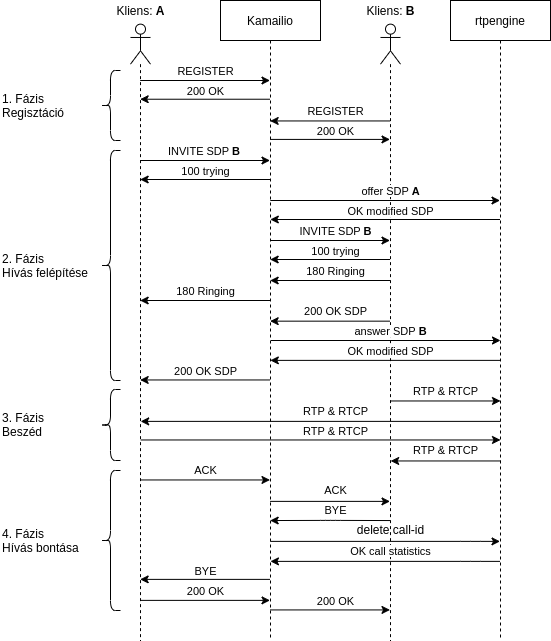
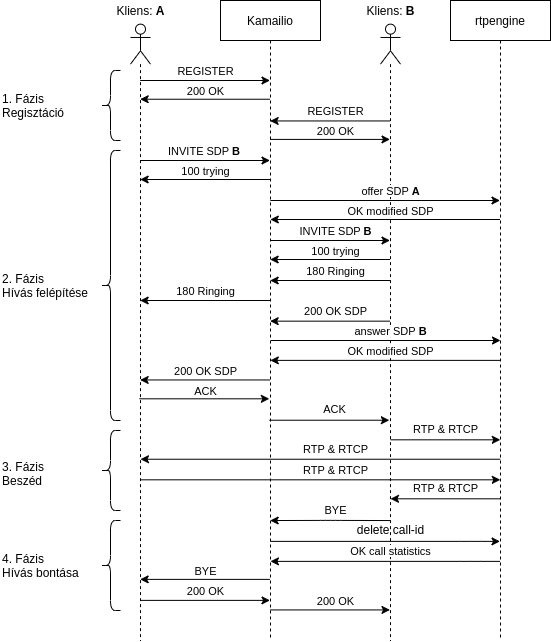
End of call setup and figure about k8s

diff --git a/content/call_setup.tex b/content/call_setup.tex
@@ -216,7 +216,59 @@ Az alábbi ábra segítségével fogom ismertetni egy teljes hívás részeit:
 	\label{fig:HVSpaces}
 \end{figure}
 
+Az ábrán látható egy teljes hívás folyamata a regisztrációtól egészen a hívás bontásáig.
+Négy részre bontottam a hívást annak érdekében, hogy könnyebb legyen a megértése.
 
-%---------------
-%TALK ABOUT SIP
-%---------------
+Az első rész a regisztráció amelynek során a felhasználók csatlakoznak a SIP szerverhez.
+Ilyenkor a kliens SIP REGISTER üzenetet küld a szervernek, amikkel hozzáadni, törölni és
+lekérdezni lehet a felhasználó adait szerverről. Ha létezik a felhasználónak fiókja 
+a szerveren, viszont még nem jelentkeztek be az adott eszközről akkor az első alkalommal 
+egy 401 Unauthorized üzenettel tér vissza, ami felszólítja a klienst, hogy adja meg a 
+hitelesítéshez szükséges felhasználói azonosítót és jelszót, amit egy újabb SIP REGISTER
+üzenetben fog újraküldeni titkosítva. Ha minden megfelelt, akkor 200 OK üzenetet kap 
+vissza a kliens, ami jelzi, hogy minden rendben és tud hívásokat kezdeményezni. Az ábrán
+szereplő folyamat nem tartalmazza a 401-s üzenetet, mert már többször használva volt a 
+kliens azon a virtuális gépen. Mint látszik a leírtakból és az ábrán is nagyon hasonlóan
+működik a SIP protokoll, ami megkönnyíti a megértését azoknak, akik járatosak a HTTP-ben. 
+
+A következő rész pedig már a konkrét hívás kezdeményezése és felépítése. A hívást az 
+\textbf{A} felhasználó kezdeményezi \textbf{B} irányába egy INVITE üzenettel, ami tartalmaz
+egy SDP üzenetet is. Ez az SDP egy olyan protokoll, amivel a híváshoz kapcsolódó információkat
+lehet továbbítani, mint például a támogatott média formátumok listája illetve a hívott fél
+elérhetőségei. Mivel ebben az esetben \textbf{B} felhasználó címe létezik a szerveren így
+a szerver 100 trying üzenettel jelzi \textbf{A}-nak, hogy elkezdte a hívást felépíteni. Erre
+azért van szükség, hogy a kliens ne próbálkozzon újra a hívás felépítésével.
+
+A szerver ilyenkor küld egy \textbf{offer} üzenetet az rtpengine felé, aminek legalább 
+tartalmaznia kell az \textbf{A} által küldött SDP üzenetet, hívásazonosítót és a SIP üzenet
+From mezőjét, ami az \textbf{A} azonosítója. Erre az rtpengine egy módosított SDP üzenetet küld
+vissza a szervernek, amiben módosítja a cél címet és portot a sajátjára. Így minden RTP
+üzenet elsőnek az rtpengine-hez fog elmenni és majd onnét megy tovább \textbf{B}-nek.
+
+Ha ez is sikeresen megtörtént, a szerver átveszi a hívás kezdeményező szerepét a \textbf{B}-vel
+szemben. Szóval küld egy INVITE üzenetet neki, amiben szerepel \textbf{A} azonosítója, de
+a csatlakozást leíró mező az rtpengine címe lesz. A trying üzenet ebben az esetben is 
+ugyan azt jelenti, mint mikor az \textbf{A} kezdeményezett. De itt már szerepel a 
+\textbf{180 ringing}, amivel lehet jelzi, hogy feldolgozásra került az INVITE. Majd ugyan ez 
+az üzenetet megkapja \textbf{A} is. 
+
+Ha \textbf{B} elfogadta a hívást, akkor \textbf{200 OK}-l jelez a szervernek, amiből a
+SIP szerver tudja, hogy answer-t kell küldenie az rtpengine felé, amivel a hívás teljesen
+ki fog épülni az rtpengine-ben is. Az answer igazából ugyanazt a funkciót valósítja meg,
+mint az offer. Mivel az rtpengine kapott offer-t és answer-t is, így a hívást kiépítheti
+és az előzőleg lefoglalt négy porton képes fogadni a forgalmat, amit feldolgozva 
+tovább küld. Azért foglal le négy port, mert felenként kell egy páros számú port az 
+RTP forgalomnak és egy páratlan számú az RTCP-nek. Végül pedig egy SIP ACK üzenettel van
+értesítve mind a két fél arról, hogy a hívás sikeresen kiépült és elkezdhetnek 
+beszélni. 
+
+Mivel már létezik a hívás így már lehet küldeni a forgalmat az rtpengine adott 
+portjaira. Ahol a legegyszerűbb esetben annyi történik, hogy az \textbf{A}-hoz rendelt
+RTP porton kapott csomagokat kiküldi a \textbf{B}-hez a hozzárendelt portról. Ugyanez
+történik RTCP esetében is. 
+
+Mikor vége a hívásnak, akkor megkezdődik a hívás lebontása egy BYE SIP üzenettel. Aminek
+hatására a SIP szerver egy delete üzenetet ad ki az rtpengine felé, ami tartalmazza a hívás
+azonosítóját. Ekkor törlődik minden a híváshoz kapcsolódó információ és a számukra kinyitott
+portok is lezárnak. De a rtpengine válaszában szerepelnek a hívásról információk, amik alapján
+könnyen lehet statisztikákat készíteni például a hívások átlagos hosszáról vagy minőségéről.

diff --git a/content/tools.tex b/content/tools.tex
@@ -6,8 +6,8 @@
 
 A Kubernetes egy nyílt forráskódú konténer kezelő platform, amivel automatizálni
 lehet a legtöbb feladatot, ami a fejlesztés, karbantartás vagy skálázással 
-kapcsolatos. Így bizonyos feladatokra kisebb hangsúlyt kell fektetni, de 
-komplexebb lesz az alkalmazás felépítése. 
+kapcsolatos. A Google fejlesztette eredetileg, de jelenleg a Cloud Native
+Computing Foundation - CNCF vette át a karbantartását. 
 
 Kubernetes fürtöt létrehozhatunk lokálisan a saját szerveren is vagy felhőben,
 ami lehet publikus, privát vagy hibrid hozzáférésű. Viszont azt figyelembe 
@@ -15,6 +15,36 @@ kell venni, hogy egy Kubernetes fürtöt nem egyszerű kiépíteni lokálisan,
 szóval ha nem szükséges, akkor lehet használni felhőszolgáltatók Kubernetes 
 motorjai, mint az Amazon AKS, Linode LKE vagy a Google GKE szolgáltatása.
 Ilyenkor egy teljes fürtöt, ami az általunk beállított paramétereket használja.
+
+\subsection{Felépítése}
+
+Egy Kubernetes fürt kettő részből áll egy vezérlő- és egy adatsíkból, ahol a 
+vezérlősíkban szereplő mester csomópontok tudják vezérleni az adatsíkban 
+lévő dolgozó csomópontokat és a fejlesztők vagy üzemeltetők a mester által
+hirdetett API-n keresztül képesek parancsokat kiadni. Míg a dolgozó 
+csomópontokon futó alkalmazáshoz a felhasználók csak az általuk hirdetett 
+Kube-Proxy segítségével tudnak hozzáférni. 
+
+A kapcsolat mester és dolgozó között az API szerver és a Kubelet kommunikációján
+alapul. Ha a fejlesztő szeretne egy új alkalmazást telepíteni a fürtön, akkor
+szól az API szervernek, ami majd kiadja a megfelelő parancsokat a Kubelet-nek 
+és majd az fogja a konténereket létrehozni. Amiről az API szervert értesítve 
+tudja meg a fejlesztő, hogy amit csinált az létrejött. \\
+
+A következőkben az alábbi ábra alapján részletesen kifejtem a Kubernetes 
+részeit. 
+
+\begin{figure}[!ht]
+	\centering
+	\includegraphics[width=1\textwidth, keepaspectratio]{figures/k8s_architecture.png}
+	\caption{Kubernetes fürt felépítése}
+	\label{fig:HVSpaces}
+\end{figure}
+
+\subsubsection{Vezérlősík}
+
+
+\subsubsection{Adatsík}
 
 \subsection{Fontos Kubernetes elemek}
 

diff --git a/content/architecture.tex b/content/architecture.tex
@@ -1,3 +1,4 @@
 %----------------------------------------------------------------------------   
-\chapter{Architektúra ismertetése}
-%---------------------------------------------------------------------------- 
+\chapter{Architektúra}
+%----------------------------------------------------------------------------
+

diff --git a/content/controller.tex b/content/controller.tex
@@ -1,3 +1,4 @@
 %----------------------------------------------------------------------------   
-\chapter{Kontroller ismertetése}
-%---------------------------------------------------------------------------- 
+\chapter{Kontroller}
+%----------------------------------------------------------------------------
+

diff --git a/content/client.tex b/content/client.tex
@@ -1,3 +1,3 @@
 %----------------------------------------------------------------------------   
-\chapter{Kliens ismertetése}
+\chapter{Kliens}
 %---------------------------------------------------------------------------- 
